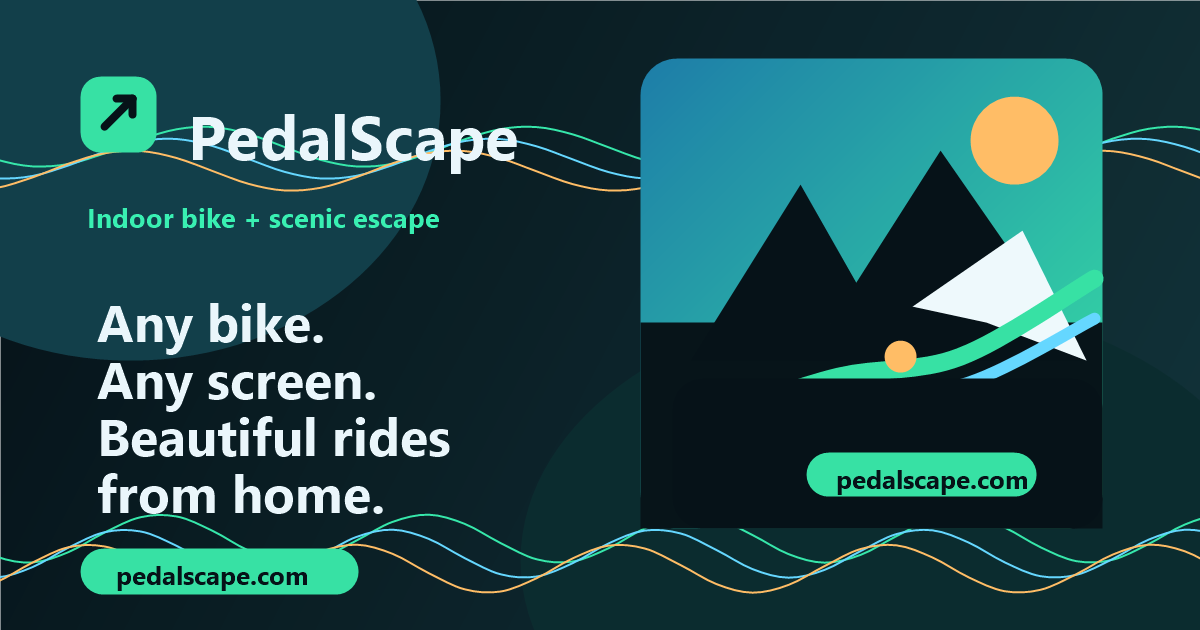
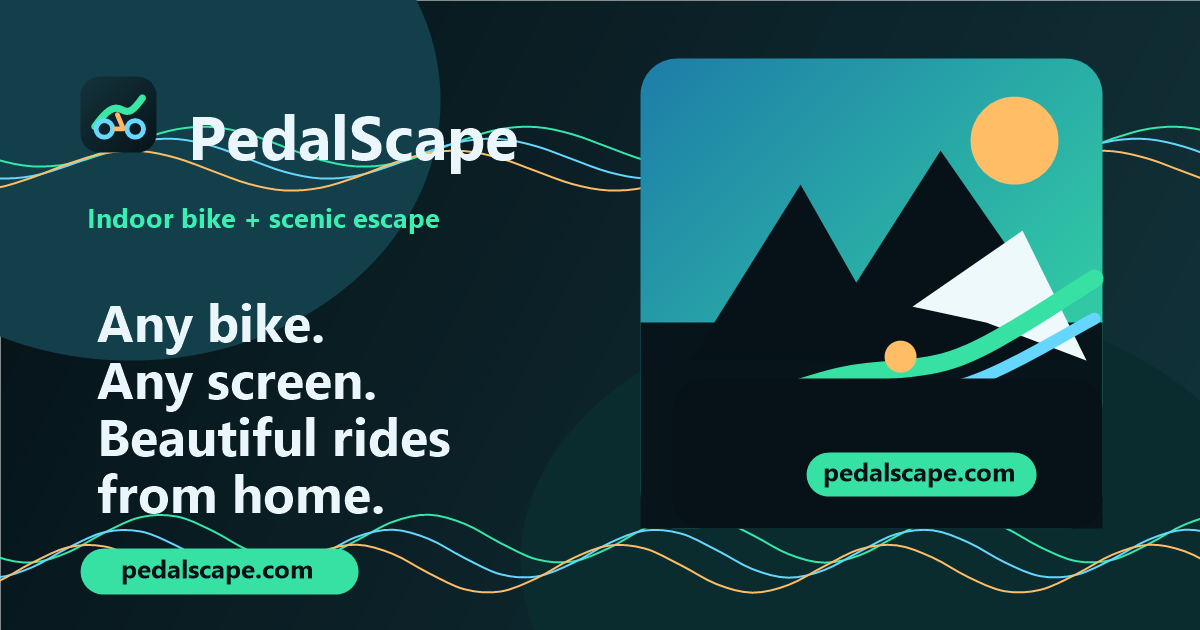
Ship OG image and cache busting polish
Use the PedalScape favicon mark in the OG image, keep OG chiclet text optically centered, add versioned CSS/JS shell URLs, bump the service worker shell cache, and tighten the Favorites-only control height.

Changed region(s): [[0.6783, 0.7238, 0.8633, 0.7841], [0.0617, 0.1206, 0.1542, 0.2413], [0.0925, 0.8746, 0.2775, 0.9349]]

diff --git a/service-worker.js b/service-worker.js
@@ -1,9 +1,13 @@
-const cacheName = 'pedalscape-shell-v3';
+// Bump shellVersion whenever the app shell assets change. The ?v= query below
+// must stay in sync with the matching references in index.html so the new shell
+// is fetched and the previous cache (keyed by version) is cleaned on activate.
+const shellVersion = '4';
+const cacheName = `pedalscape-shell-v${shellVersion}`;
 const shellAssets = [
   './',
   './index.html',
-  './src/app.js',
-  './src/styles.css',
+  `./src/app.js?v=${shellVersion}`,
+  `./src/styles.css?v=${shellVersion}`,
   './manifest.webmanifest',
   './routes/catalog.json',
   './routes/candidate-backlog.json',

diff --git a/tests/pwa-local.spec.js b/tests/pwa-local.spec.js
@@ -189,12 +189,16 @@ test('favorites persist locally and favorites-only filter works', async ({ page 
 
   const favoritesControl = page.locator('label.toggle-field', { has: page.locator('#favoritesFilter') });
   await expect(favoritesControl).toContainText('Favorites only');
-  const [controlBox, checkboxBox] = await Promise.all([
+  const [controlBox, checkboxBox, durationFilterBox] = await Promise.all([
     favoritesControl.boundingBox(),
-    page.locator('#favoritesFilter').boundingBox()
+    page.locator('#favoritesFilter').boundingBox(),
+    page.locator('#durationFilter').boundingBox()
   ]);
   expect(controlBox).not.toBeNull();
   expect(checkboxBox).not.toBeNull();
+  expect(durationFilterBox).not.toBeNull();
+  expect(Math.abs(controlBox.height - durationFilterBox.height)).toBeLessThanOrEqual(1);
+  expect(checkboxBox.height).toBeLessThan(controlBox.height);
   expect(checkboxBox.x).toBeGreaterThanOrEqual(controlBox.x);
   expect(checkboxBox.y).toBeGreaterThanOrEqual(controlBox.y);
   expect(checkboxBox.x + checkboxBox.width).toBeLessThanOrEqual(controlBox.x + controlBox.width);

diff --git a/index.html b/index.html
@@ -30,7 +30,7 @@
     <link rel="icon" href="icons/favicon.svg" type="image/svg+xml">
     <link rel="apple-touch-icon" href="icons/apple-touch-icon.png">
     <title>PedalScape</title>
-    <link rel="stylesheet" href="src/styles.css">
+    <link rel="stylesheet" href="src/styles.css?v=4">
   </head>
   <body>
     <header class="hero">
@@ -232,7 +232,7 @@
       </div>
     </footer>
 
-    <script src="src/app.js"></script>
+    <script src="src/app.js?v=4"></script>
   </body>
 </html>
 

diff --git a/src/styles.css b/src/styles.css
@@ -302,6 +302,7 @@ h3 {
 }
 
 .controls-panel .toggle-field {
+  align-self: end;
   min-height: 3.15rem;
 }
 
@@ -310,6 +311,9 @@ h3 {
 }
 
 .controls-panel .toggle-field input {
+  width: 1.25rem;
+  height: 1.25rem;
+  min-height: 1.25rem;
   margin: 0;
 }
 

diff --git a/.squad/decisions.md b/.squad/decisions.md
@@ -2,10 +2,80 @@
 
 ## Active Decisions
 
-No decisions recorded yet.
+### 2026-06-18T01:32:36-07:00 — Pivot to general laptop-bike scenic rides website
+**Decision:** PedalScape/ScenicSpin is a website for people using any indoor bike with any laptop or screen, not a Peloton-specific hack.
+**Rationale:** Optimize for broad accessibility, affordability, and simple web playback. Avoid relying on unsupported Peloton device behavior.
+**References:** Neo, Trinity, Tank, Morpheus
+
+### 2026-06-18T01:41:05-07:00 — MVP is a dependency-free static web app
+**Decision:** Use plain HTML, CSS, and JavaScript at the repository root with curated route metadata, YouTube-nocookie embeds, source-link fallbacks, large controls, responsive cards, search/filtering, and fullscreen-capable playback.
+**Rationale:** Keeps the MVP browser-first, low setup, and easy to validate before choosing richer hosting or playback integrations.
+**References:** Trinity
+
+### 2026-06-18T02:28:28-07:00 — Prioritize no-login local personalization and PWA feel
+**Decision:** Keep the MVP no-login while supporting local-first features such as favorites, playlists, recent rides, preferences, favicon/manifest, and installable/app-like UX.
+**Rationale:** Local personalization is a product differentiator and preserves a simple, privacy-friendly MVP.
+**References:** Neo, Trinity, Switch
+
+### 2026-06-18T03:43:50-07:00 — Local-first roadmap after PWA MVP
+**Decision:** Priority order is P0 Playwright regression tests and Reset local data; P1 stale route cleanup, service-worker update UX, export/import local data; P2 custom playlists and install polish.
+**Rationale:** Stabilize the app before expanding local data workflows.
+**References:** Switch, Trinity, Neo
+
+### 2026-06-18T04:01:39-07:00 — Candidate route promotion rubric and batching plan
+**Decision:** Use a two-gate promotion model: metadata triage first, then human review before production. Review statuses are candidate, needs-human-review, reviewed-pass, promoted, rejected, and deferred with reasons where needed. Promote small batches of strongest routes.
+**Rationale:** Keeps visible catalog quality high while preserving rejected/deferred evidence for future sourcing.
+**References:** Neo, Tank, Trinity, Switch, routes/candidate-backlog.json, routes/catalog.json
+
+### 2026-06-18T04:18:13-07:00 — Add social share OG image to polish queue
+**Decision:** Add a polish item for a static social preview image plus Open Graph/Twitter metadata.
+**Rationale:** Shared links should render attractively on social platforms.
+**References:** Trinity
+
+### 2026-06-18T04:46:32-07:00 — Use pragmatic video-quality signals for promotion
+**Decision:** Treat roughly 30-minute duration, no ads, high visual quality, and high view count as strong positive curation signals, while still checking source legitimacy, embed playback, and legal/platform safety.
+**Rationale:** Gives Tank and reviewers practical promotion heuristics without dropping safety checks.
+**References:** Tank, Neo
+
+### 2026-06-18T04:51:33-07:00 — Hide candidate backlog by default and add reviewer workflow
+**Decision:** Candidate backlog should stay hidden unless review mode is active. Add a better review workflow where Scott can mark yes/no/defer and export/copy decisions back to the team.
+**Rationale:** JSON review is not an acceptable human workflow, and unreviewed backlog should not appear public by default.
+**References:** Trinity, Tank, Neo
+
+### 2026-06-18T04:51:37-07:00 — Do not prioritize YouTube lazy-loading yet
+**Decision:** Keep the privacy caveat, but do not treat lazy-loading YouTube iframes as a near-term blocker.
+**Rationale:** Scott is not currently worried about this optimization.
+**References:** Neo, Trinity
+
+### 2026-06-18T05:26:31-07:00 — Route chicklets are curated decision signals
+**Decision:** Badges/chicklets should communicate concrete curated facts such as quality, primary duration, audio type when known, source/embed confidence, route style, and suitability. Avoid vague badges and internal review text.
+**Rationale:** Riders need enough useful detail to make an educated choice.
+**References:** Trinity, Switch, Tank
+
+### 2026-06-18T05:55:22-07:00 — Use more parallelism and involve underused Squad members
+**Decision:** Prefer parallel routing for independent work and intentionally involve underused members when their charter fits.
+**Rationale:** Scott directed the team to consider whether any Squad members are underused and emphasized that parallelism is key. Current routing recommendation: Trinity for UI, Morpheus for PWA/local/offline, Switch for validation, Tank for sourcing, Rai for safety/platform, Ralph for backlog watch, Scribe for decisions/logs.
+**References:** User directive, Neo
+
+### 2026-06-18T01:22:57-07:00 — Content sourcing taxonomy
+**Decision:** Separate streaming/embedding sources, subscription or licensed route apps/vendors, owned/self-hosted files, and app alternatives.
+**Rationale:** Keeps sourcing useful while avoiding ToS/copyright pitfalls.
+**References:** Tank
+
+## Superseded / Historical Decisions
+
+### 2026-06-18T01:22:26-07:00 — Peloton-specific minimal playback screen
+**Status:** Superseded by the general laptop-bike website pivot.
+**Historical value:** The browser-first, large-control, fallback-friendly UX principles still apply, but Peloton-specific assumptions should not drive the product.
+**References:** Trinity, Morpheus
+
+### 2026-06-18T01:23:35-07:00 — Platform-safe Peloton video display paths
+**Status:** Superseded by the general website pivot.
+**Historical value:** Avoid unsupported device hacks; keep official/legitimate playback paths and fallback links in mind.
+**References:** Morpheus
 
 ## Governance
 
-- All meaningful changes require team consensus
-- Document architectural decisions here
-- Keep history focused on work, decisions focused on direction
+- All meaningful changes require team consensus.
+- Document architectural/product decisions here.
+- Keep histories focused on agent work; keep this file focused on direction.

diff --git a/.squad/agents/neo/history.md b/.squad/agents/neo/history.md
@@ -1,3 +1,5 @@
 # Neo History
 
 - 2026-06-17: Seeded as Lead for the Peloton scenic-rides project. Initial context: determine a practical, platform-safe way to discover, host, and play scenic cycling ride videos on a Peloton screen for Scott Hanselman.
+
+- 2026-06-18: Recommended more parallel routing: Trinity UI, Morpheus PWA/local/offline, Switch validation, Tank sourcing, Rai safety/platform, Ralph backlog watch, and Scribe decisions/logs.

diff --git a/.squad/agents/scribe/history.md b/.squad/agents/scribe/history.md
@@ -14,3 +14,5 @@ Agent Scribe initialized and ready for work.
 ## Learnings
 
 Initial setup complete.
+
+- 2026-06-18: Merged pending decision inbox into `decisions.md`, including the parallelism/underused-members directive; wrote session and orchestration logs for the curation badge polish batch. No commit/push performed.

diff --git a/.squad/agents/switch/history.md b/.squad/agents/switch/history.md
@@ -44,3 +44,5 @@ Use this as the first-pass manual validation suite once Trinity/Tank land the MV
 - Slow image/video loads show placeholders/loading states and never block navigation.
 - Network/video failure surfaces a retry or alternate action.
 - No copyrighted Peloton content is embedded unless explicitly licensed/allowed.
+
+- 2026-06-18: Cleaned promoted backlog metadata in `routes/candidate-backlog.json` so promoted items no longer imply pending human review.

diff --git a/.squad/agents/tank/history.md b/.squad/agents/tank/history.md
@@ -2,3 +2,5 @@
 
 - 2026-06-17: Seeded as Research/Docs for the Peloton scenic-rides project. Initial context: research scenic cycling video sources and document practical setup options.
 - 2026-06-17: Created the MVP static scenic route catalog with verified public YouTube links, embed URLs, and curation metadata for a general indoor-bike website.
+
+- 2026-06-18: Verified all 32 backlog candidates as solid, promoted/featured, production-catalog mapped, and hidden unless review mode is active.

diff --git a/.squad/agents/trinity/history.md b/.squad/agents/trinity/history.md
@@ -1,3 +1,5 @@
 # Trinity History
 
 - 2026-06-17: Seeded as Frontend/UX Engineer for the Peloton scenic-rides project. Initial context: own the Peloton-screen playback experience, including layout, controls, and usability while riding.
+
+- 2026-06-18: Polished curation UI by moving Favorites-only into the Favorites pill, removing duplicate under-card duration chips while preserving primary duration display, and capping overlay media badges at four.